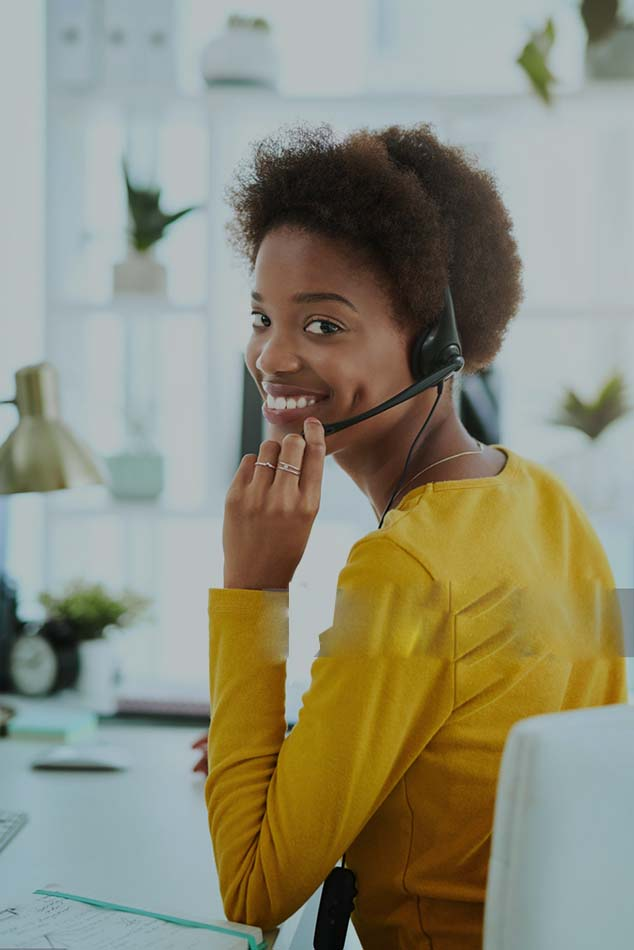
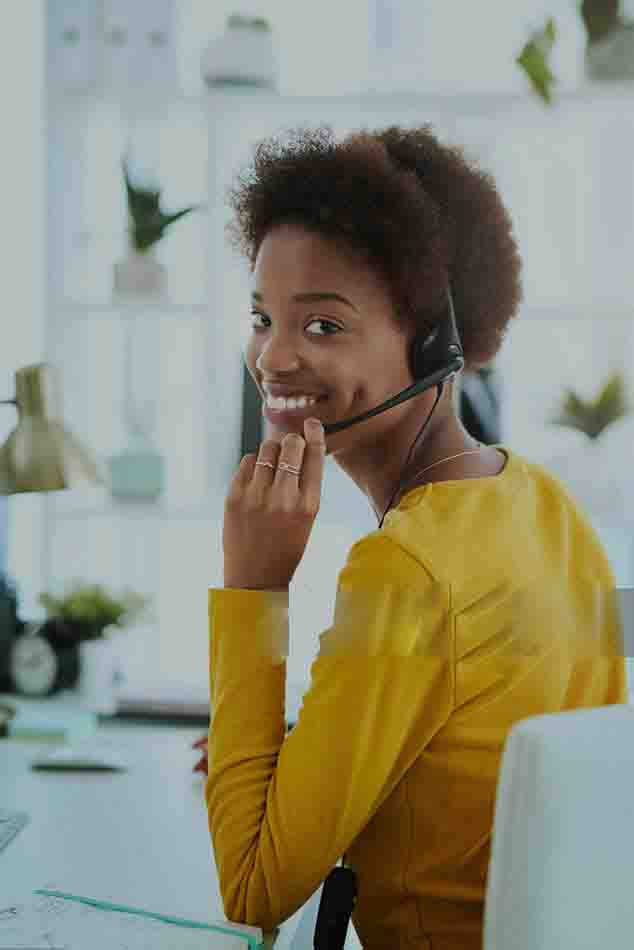
commit

diff --git a/index.html b/index.html
@@ -198,7 +198,7 @@
          <!-- =========glide JS=================== -->
      </div>
 
-    <!-- <div class="background"></div> -->
+    <div class="background"></div>
     </section>
     <section class="abt-us">
         <div>
@@ -513,7 +513,7 @@
     <script src="https://cdnjs.cloudflare.com/ajax/libs/jquery/3.2.1/jquery.min.js"></script>
     <script src="https://cdnjs.cloudflare.com/ajax/libs/jqueryui/1.12.1/jquery-ui.min.js"></script>
 <!-- +++++++++++++++++++++++++++++++++JQuery+++++++++++++++++++++++++++++++++++++++ -->
-    <script>
+    <!-- <script>
     $(".step").click( function() {
 	$(this).addClass("active1").prevAll().addClass("active1");
 	$(this).nextAll().removeClass("active1");
@@ -546,7 +546,7 @@ $(".step05").click( function() {
 
 
       
-</script>
+</script> -->
 
 <!-- ++++++++++++++++++++++++++++++++JQuery++++++++++++++++++++++++++++++++++++++ -->
 </body>
